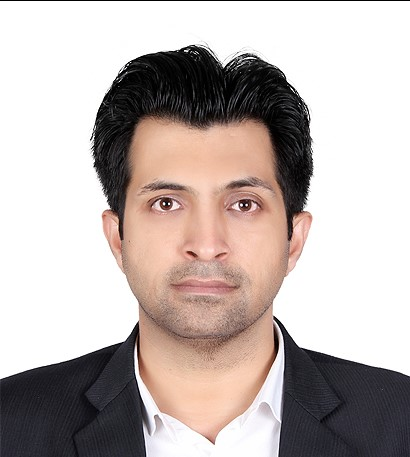
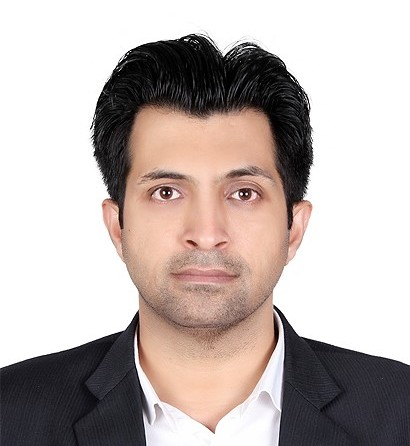
Updated Prerna Profile

diff --git a/about.html b/about.html
@@ -46,6 +46,22 @@
     }
   }
   </script>
+
+  <script type="application/ld+json">
+  {
+    "@context": "https://schema.org",
+    "@type": "Person",
+    "name": "Prerna Gaur",
+    "jobTitle": "Co-Founder & Operations Lead",
+    "image": "https://nayutechnologies.com/Prerna-photo.jpeg",
+    "url": "https://nayutechnologies.com/about.html",
+    "worksFor": {
+      "@type": "Organization",
+      "name": "Nayu Technologies Inc.",
+      "url": "https://nayutechnologies.com/"
+    }
+  }
+  </script>
 </head>
 <body>
 
@@ -97,11 +113,11 @@
       <div class="container">
         <div class="section-header" style="margin-bottom: 36px;">
           <span class="eyebrow">Leadership</span>
-          <h2>Guided by 18+ years of enterprise IT leadership.</h2>
+          <h2>Guided by two co-founders with 30+ years of combined enterprise IT and entrepreneurial leadership.</h2>
         </div>
 
         <div class="about-split">
-          <!-- Left Card: Managing Director -->
+          <!-- Founder: Deepak Kaushik -->
           <aside class="founder-card">
             <img
               src="Deepak-photograph.jpg"
@@ -116,8 +132,7 @@
               Founder &amp; Managing Director
             </div>
             <p style="font-size: 0.88rem; color: var(--text-secondary); margin-bottom: 16px;">
-              Ontario, Canada<br>
-              B.Eng. Electronics &amp; Communication
+              Ontario, Canada &middot; B.Eng. Electronics &amp; Communication &middot; 18+ years leading enterprise architecture, cloud transformation, and agile delivery across Canada, the UAE, the Netherlands, the US, and India, including Principal and Lead Architect roles across major banking, insurance, and payments organizations.
             </p>
 
             <a href="https://ca.linkedin.com/in/deepakkaushik86" target="_blank" rel="noopener noreferrer" class="btn btn-secondary btn-sm" style="width: 100%;">
@@ -136,19 +151,38 @@
             </ul>
           </aside>
 
-          <!-- Right Bio -->
-          <div class="card">
-            <h3>Enterprise Delivery Background</h3>
-            <p>
-              Nayu Technologies Inc. was founded by Deepak Kaushik after more than 18years leading enterprise architecture, cloud transformation, and agile delivery teams across Canada, the United Arab Emirates, the Netherlands, the United States, and India.
+          <!-- Co-Founder: Prerna Gaur -->
+          <aside class="founder-card">
+            <img
+              src="Prerna-photo.jpeg"
+              alt="Prerna Gaur, Co-Founder and Operations Lead at Nayu Technologies Inc."
+              width="410"
+              height="457"
+              class="founder-photo"
+            />
+
+            <h3 style="margin-bottom: 2px;">Prerna Gaur</h3>
+            <div style="font-size: 0.9rem; color: var(--accent-blue); font-weight: 600; margin-bottom: 12px;">
+              Co-Founder &amp; Operations Lead &bull; Serial Entrepreneur
+            </div>
+            <p style="font-size: 0.88rem; color: var(--text-secondary); margin-bottom: 16px;">
+              12+ years of entrepreneurial and program delivery leadership across Canada, the UAE, and India, including founding and operating Perqua Technologies Pvt Ltd, India (2016–2023), delivering IT solutions to retail clients across Delhi NCR.
             </p>
-            <p>
-              Throughout his career—serving in Principal and Lead Architect roles across major banking, insurance, payments, and telecom organizations—he built and mentored multi-disciplinary engineering teams, managed vendor ecosystems, and delivered complex cloud and digital platforms.
-            </p>
-            <p style="margin-bottom: 0;">
-              Today, Nayu Technologies brings that same architectural discipline to helping client organizations build high-performing technical teams, manage contingent IT resources, and administer reliable payroll operations.
-            </p>
-          </div>
+
+            <a href="https://linkedin.com" target="_blank" rel="noopener noreferrer" class="btn btn-secondary btn-sm" style="width: 100%;">
+              LinkedIn Profile
+            </a>
+
+            <div style="margin-top: 20px; font-size: 0.8rem; font-weight: 700; text-transform: uppercase; letter-spacing: 0.05em; color: var(--text-primary);">
+              Credentials &amp; Focus Areas
+            </div>
+            <ul class="cert-list">
+              <li><span class="cert-dot"></span><span>AI Delivery Management (PMI Generative AI Certified)</span></li>
+              <li><span class="cert-dot"></span><span>PMP Certified &amp; PMI Authorized Training Partner Instructor</span></li>
+              <li><span class="cert-dot"></span><span>Enterprise Architecture &amp; Agile Governance (TOGAF 9.2, SAFe 5, CSM, PMP)</span></li>
+              <li><span class="cert-dot"></span><span>Client Partnerships, Vendor Onboarding &amp; Workforce Operations</span></li>
+            </ul>
+          </aside>
         </div>
       </div>
     </section>

diff --git a/styles.css b/styles.css
@@ -358,7 +358,8 @@ h3, .h3 {
 /* About / Leadership Split Layout */
 .about-split {
   display: grid;
-  grid-template-columns: 340px 1fr;
+  grid-template-columns: repeat(auto-fit, minmax(280px, 340px));
+  justify-content: center;
   gap: 40px;
   align-items: start;
 }
@@ -372,7 +373,8 @@ h3, .h3 {
 
 .founder-photo {
   width: 100%;
-  height: auto;
+  aspect-ratio: 410 / 457;
+  object-fit: cover;
   border: 1px solid var(--border-light);
   border-radius: var(--radius-sm);
   margin-bottom: 18px;
